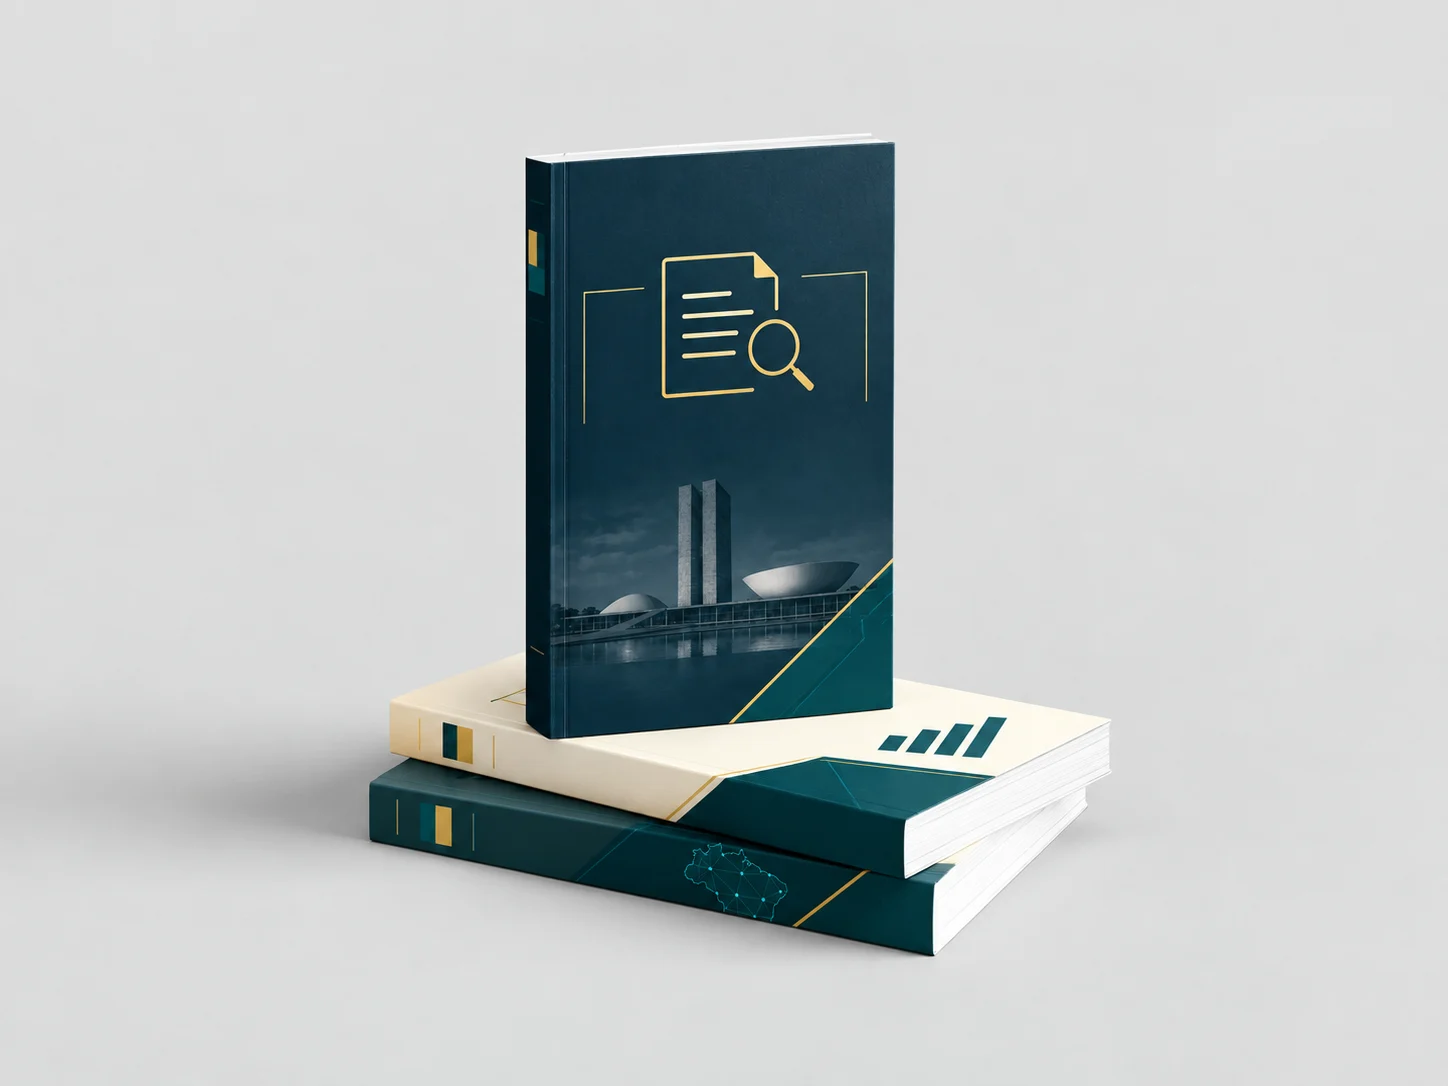
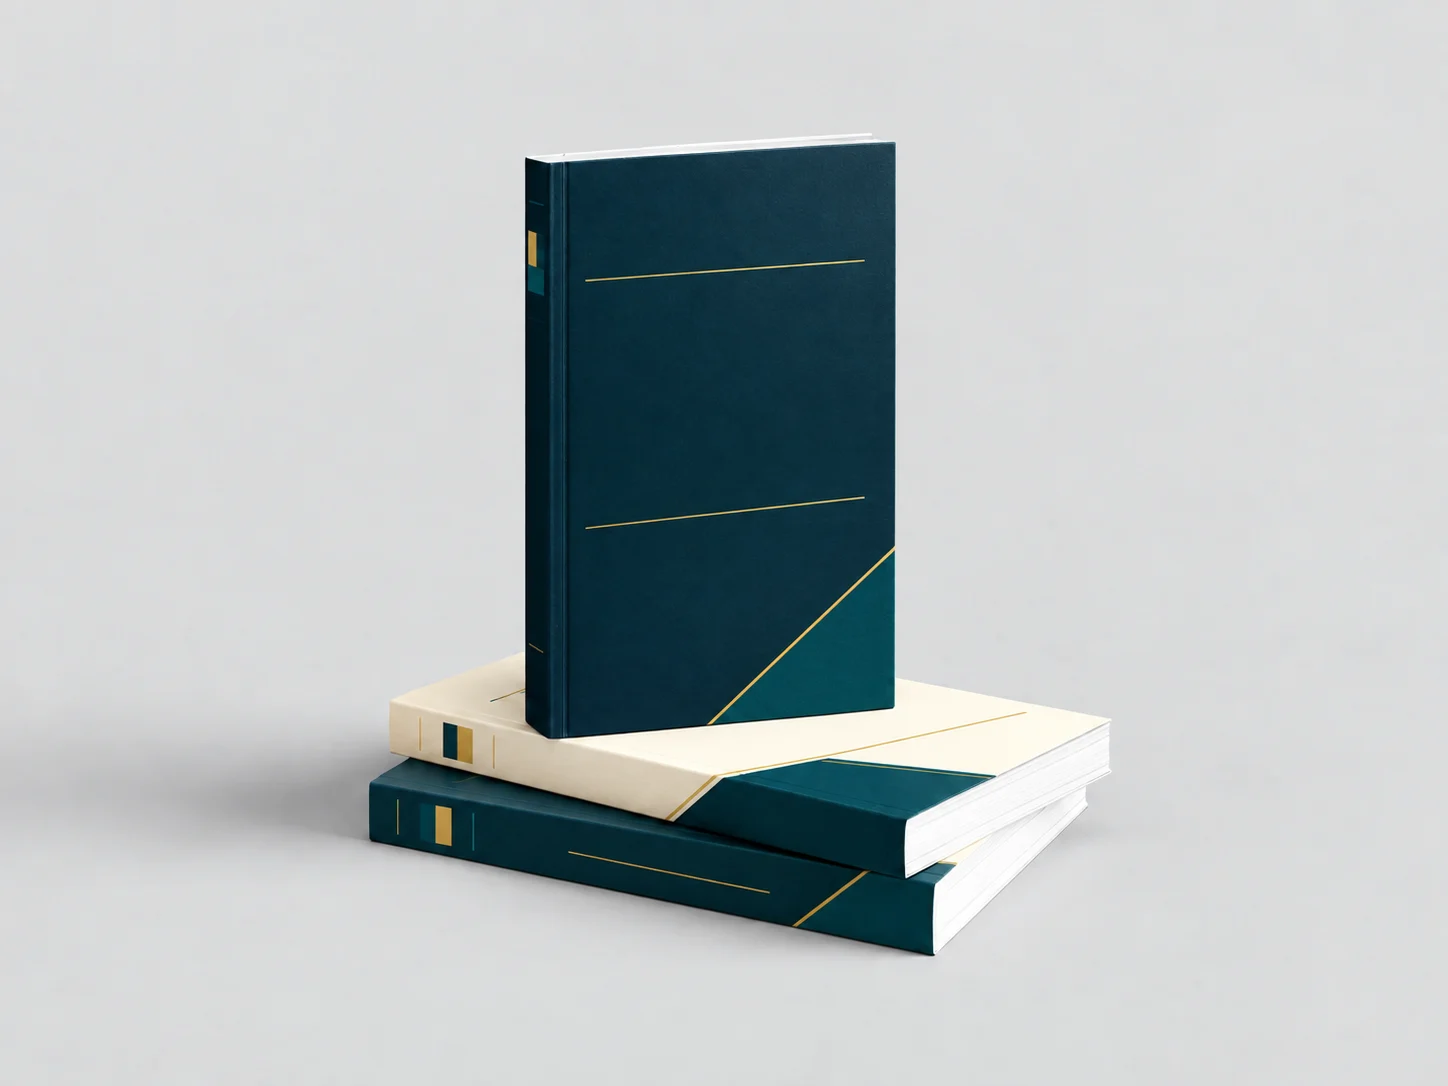
refine: remove iconografia da capa editorial

diff --git a/index.html b/index.html
@@ -33,7 +33,7 @@
   <div class="hero-purchase"><p class="bundle-label">eBook completo <span>+</span> 2 guias bônus incluídos</p><div class="price-line"><span class="price"><small>R$</small> 47<span>,00</span></span><span class="price-method">no Pix<br><span>pagamento único</span></span></div><p class="card-price">R$ 49,90 no cartão à vista ou até 5× de R$ 11<br><span>Total parcelado: R$ 55.</span></p>
   <a class="cta" data-cta="hero" href="https://pay.herospark.com/o-que-todo-fiscal-procura-guia-pratico-de-notas-fiscais-para-nao-levar-multa-539743">Acessar o guia e os 2 bônus <svg class="icon"><use href="#i-arrow"/></svg></a>
   <p class="purchase-note"><svg class="icon"><use href="#i-shield"/></svg>7 dias de garantia <span>·</span> Material digital</p></div></div>
-  <div class="hero-visual"><div class="edition-label"><span>A COLEÇÃO COMPLETA</span><span>GUIA + 2 BÔNUS</span></div><figure class="product-figure"><img src="./assets/hero/colecao-v2.webp" width="1122" height="1402" sizes="(max-width: 767px) 100vw, 48vw" alt="Mockup ilustrativo da coleção com o guia principal e dois guias bônus" fetchpriority="high"><figcaption>Mockup ilustrativo da coleção.</figcaption></figure><div class="author-mini"><img class="author-mini-photo" src="./autor-ivan-goncalves-detalhe.png" width="54" height="72" alt="Ivan Gonçalves, autor do guia"><div><strong>Por Ivan Gonçalves</strong><span>Autor do guia sobre a rotina de NFS-e</span></div><a href="#autor" aria-label="Conhecer o autor Ivan Gonçalves"><svg class="icon"><use href="#i-arrow"/></svg></a></div></div>
+  <div class="hero-visual"><div class="edition-label"><span>A COLEÇÃO COMPLETA</span><span>GUIA + 2 BÔNUS</span></div><figure class="product-figure"><img src="./assets/hero/colecao-v2.webp" width="1448" height="1086" sizes="(max-width: 767px) 100vw, 48vw" alt="Mockup ilustrativo da coleção com um guia em pé sobre dois guias bônus" fetchpriority="high"><div class="hero-cover-type" aria-hidden="true"><span>GUIA PRÁTICO</span><strong>O Que Todo<br>Fiscal Procura</strong><small>Notas fiscais de serviço</small></div><figcaption>Mockup ilustrativo da coleção.</figcaption></figure><div class="author-mini"><img class="author-mini-photo" src="./autor-ivan-goncalves-detalhe.png" width="54" height="72" alt="Ivan Gonçalves, autor do guia"><div><strong>Por Ivan Gonçalves</strong><span>Autor do guia sobre a rotina de NFS-e</span></div><a href="#autor" aria-label="Conhecer o autor Ivan Gonçalves"><svg class="icon"><use href="#i-arrow"/></svg></a></div></div>
 </div></section>
 <div class="value-strip"><div class="container"><span><svg class="icon"><use href="#i-file"/></svg>Orientação direta ao ponto</span><span><svg class="icon"><use href="#i-book"/></svg>Material digital para consulta</span><span><svg class="icon"><use href="#i-check"/></svg>Checklist para a sua rotina</span><span><svg class="icon"><use href="#i-shield"/></svg>Garantia de 7 dias</span></div></div>
 <section class="section problem"><div class="container"><div class="section-intro"><div><h2>Uma nota emitida.<br>Algumas perguntas em aberto.</h2></div><p>Nem sempre o erro está no valor da nota. Cadastro, código do serviço e retenções também merecem atenção. Saber o que conferir ajuda você a agir com mais clareza.</p></div><div class="problem-grid"><article><span class="row-number">01</span><h3>“Esse código está certo?”</h3><p>Você escolhe o serviço, mas fica em dúvida se ele corresponde à atividade realizada.</p></article><article><span class="row-number">02</span><h3>“Meu cadastro está em dia?”</h3><p>A rotina mudou. O cadastro, o enquadramento ou o regime tributário podem precisar de revisão.</p></article><article><span class="row-number">03</span><h3>“E se houver uma pendência?”</h3><p>Uma divergência ou uma retenção incorreta pode passar despercebida sem uma rotina de conferência.</p></article></div><p class="section-note"><svg class="icon"><use href="#i-check"/></svg>O primeiro passo é entender o que revisar. O guia ajuda você a organizar essa conferência.</p></div></section>

diff --git a/styles-hero.css b/styles-hero.css
@@ -1,7 +1,11 @@
 /* Hero product treatment: clean catalogue-style mockup, matching the supplied reference. */
 .hero-visual{position:relative}
-.product-figure{margin:10px 0 0;padding:12px 14px 10px;background:#e9eceb;border:1px solid #ffffff18;border-radius:10px;box-shadow:0 18px 42px #00171d2b}
+.product-figure{position:relative;margin:10px 0 0;padding:12px 14px 10px;background:#e9eceb;border:1px solid #ffffff18;border-radius:10px;box-shadow:0 18px 42px #00171d2b}
 .product-figure img{aspect-ratio:4/3;object-fit:cover;border-radius:5px}
+.hero-cover-type{position:absolute;z-index:1;left:38.7%;top:22%;width:25%;display:grid;justify-items:center;color:#f5f1e8;text-align:center;transform:rotate(-1.1deg);pointer-events:none;text-shadow:0 1px 2px #071f2688}
+.hero-cover-type>span{font-size:clamp(.38rem,.72vw,.62rem);letter-spacing:.16em;color:#d4a94e;font-weight:700;line-height:1.2}
+.hero-cover-type>strong{font-size:clamp(.64rem,1.45vw,1.18rem);line-height:.98;letter-spacing:-.04em;margin-top:12%;font-weight:700}
+.hero-cover-type>small{font-size:clamp(.34rem,.58vw,.52rem);letter-spacing:.06em;color:#d8e0df;margin-top:12%;padding-top:10%;border-top:1px solid #d4a94e99}
 .product-figure figcaption{color:#526c70;margin-top:8px;font-size:.6875rem;letter-spacing:.05em}
 @media(min-width:1060px){.hero-visual .product-figure img{max-height:none}.hero-visual .product-figure{padding:14px 16px 11px}}
-@media(max-width:767px){.product-figure{margin-top:7px;padding:9px 10px 8px}.product-figure figcaption{font-size:.625rem;margin-top:7px}}
+@media(max-width:767px){.product-figure{margin-top:7px;padding:9px 10px 8px}.hero-cover-type>strong{margin-top:10%;font-size:clamp(.78rem,3.4vw,1.15rem)}.product-figure figcaption{font-size:.625rem;margin-top:7px}}
